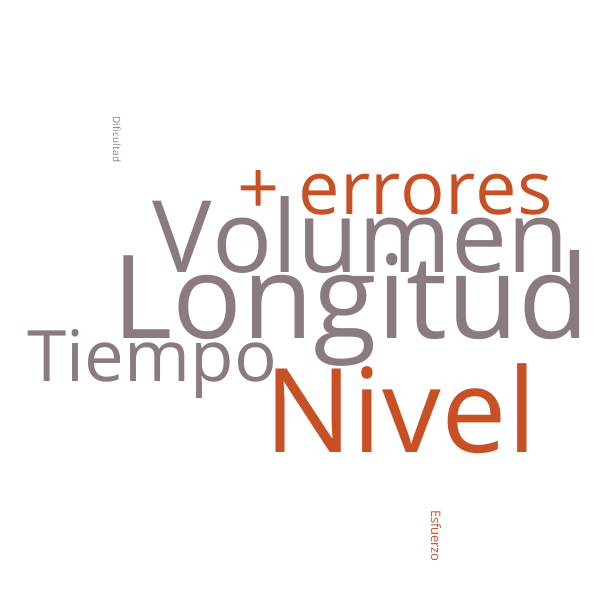
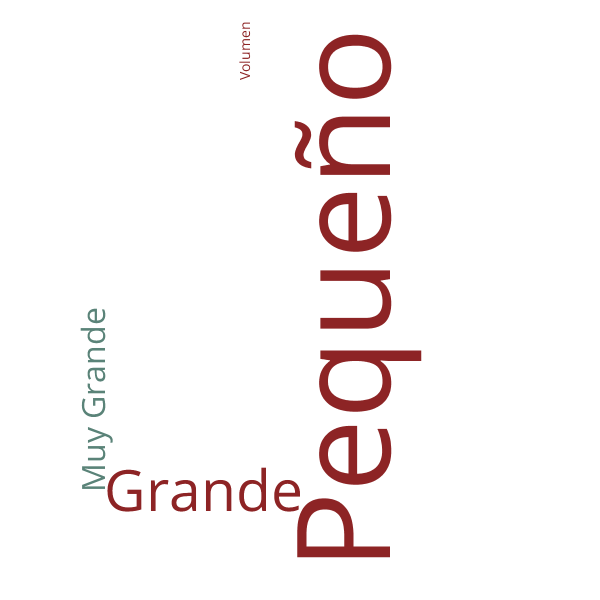
7-11-2016

diff --git a/src/main/java/HalsteadMetricsBean.java b/src/main/java/HalsteadMetricsBean.java
@@ -1,0 +1,111 @@
+
+import java.util.HashMap;
+
+
+public class HalsteadMetricsBean {
+
+	private int operatorCount;
+	private int operandCount;
+	private int uniqueOperatorCount; 
+	private int uniqueOperandCount;
+	private int vocabulary;
+	private int length;
+	private double volume;
+	private double difficulty;
+	private double effort;
+	
+	public HashMap<String, Integer> getHalsteadWordFrecuency(){
+		HashMap<String, Integer> wordFrecuncy = new HashMap<String, Integer>();
+		getLargoWordFrecuency(wordFrecuncy);
+		getVolumenWordFrecuency(wordFrecuncy);
+		return wordFrecuncy;
+	}
+		
+	private HashMap<String, Integer> getLargoWordFrecuency(HashMap<String, Integer> wordFrecuncy){
+	
+		if(length <= 100){
+			wordFrecuncy.put("Pequeño", 250);
+			wordFrecuncy.put("Mediano", 200);
+			wordFrecuncy.put("Grande", 100);
+			wordFrecuncy.put("Muy Grande",50);
+		}else if(length > 100 && length <= 500){
+			wordFrecuncy.put("Pequeño", 100);
+			wordFrecuncy.put("Mediano", 250);
+			wordFrecuncy.put("Grande", 100);
+			wordFrecuncy.put("Muy Grande",50);
+		}else if(length > 500 && length <= 1500){
+			wordFrecuncy.put("Pequeño", 100);
+			wordFrecuncy.put("Mediano", 150);
+			wordFrecuncy.put("Grande", 250);
+			wordFrecuncy.put("Muy Grande",100);
+		}else{//length > 1500
+			wordFrecuncy.put("Pequeño", 50);
+			wordFrecuncy.put("Mediano", 50);
+			wordFrecuncy.put("Grande", 100);
+			wordFrecuncy.put("Muy Grande",250);
+		}
+		return wordFrecuncy;
+	}
+	
+	private HashMap<String, Integer> getVolumenWordFrecuency(HashMap<String, Integer> wordFrecuncy){
+		Long value = Math.round((volume * 250) / 8000);
+		int frecuency = Integer.valueOf(value.intValue());
+		wordFrecuncy.put("Volumen", frecuency);
+		return wordFrecuncy;
+	}
+	
+	public int getOperatorCount() {
+		return operatorCount;
+	}
+	public void setOperatorCount(int operatorCount) {
+		this.operatorCount = operatorCount;
+	}
+	public int getOperandCount() {
+		return operandCount;
+	}
+	public void setOperandCount(int operandCount) {
+		this.operandCount = operandCount;
+	}
+	public int getUniqueOperatorCount() {
+		return uniqueOperatorCount;
+	}
+	public void setUniqueOperatorCount(int uniqueOperatorCount) {
+		this.uniqueOperatorCount = uniqueOperatorCount;
+	}
+	public int getUniqueOperandCount() {
+		return uniqueOperandCount;
+	}
+	public void setUniqueOperandCount(int uniqueOperandCount) {
+		this.uniqueOperandCount = uniqueOperandCount;
+	}
+	public int getVocabulary() {
+		return vocabulary;
+	}
+	public void setVocabulary(int vocabulary) {
+		this.vocabulary = vocabulary;
+	}
+	public int getLength() {
+		return length;
+	}
+	public void setLength(int length) {
+		this.length = length;
+	}
+	public double getVolume() {
+		return volume;
+	}
+	public void setVolume(double volume) {
+		this.volume = volume;
+	}
+	public double getDifficulty() {
+		return difficulty;
+	}
+	public void setDifficulty(double difficulty) {
+		this.difficulty = difficulty;
+	}
+	public double getEffort() {
+		return effort;
+	}
+	public void setEffort(double effort) {
+		this.effort = effort;
+	}
+}

diff --git a/src/main/java/KumoGeneratorOutputWordCloud.java b/src/main/java/KumoGeneratorOutputWordCloud.java
@@ -4,6 +4,7 @@ import java.io.FileInputStream;
 import java.io.IOException;
 import java.io.InputStream;
 import java.util.ArrayList;
+import java.util.HashMap;
 import java.util.List;
 import java.util.Random;
 
@@ -20,7 +21,7 @@ public class KumoGeneratorOutputWordCloud {
 	
 	private static final Random RANDOM = new Random();
 		
-	public static void kumoGenerateOutputWordCloud(String fileWordCloudToWrite) throws IOException{
+	public static void kumoGenerateOutputWordCloud(String fileWordCloudToWrite, HalsteadMetricsBean halstedMetrics) throws IOException{
 	    final FrequencyAnalyzer frequencyAnalyzer = new FrequencyAnalyzer();
 	    frequencyAnalyzer.setWordFrequenciesToReturn(600);
 	    frequencyAnalyzer.setMinWordLength(5);
@@ -37,7 +38,8 @@ public class KumoGeneratorOutputWordCloud {
 	    
 	    wordCloud.setFontScalar(new LinearFontScalar(8, 130));
 	    
-	    wordCloud.build(buildWordFrequencies());
+	    //wordCloud.build(buildWordFrequencies());
+	    wordCloud.build(buildWordFrequenciesByHashMap(halstedMetrics.getHalsteadWordFrecuency()));
 	    
 	    //wordCloud.writeToFile("C:\\Users\\Usuario\\Desktop\\wordcloud_match_online_example.png");
 	    wordCloud.writeToFile(fileWordCloudToWrite);
@@ -55,14 +57,16 @@ public class KumoGeneratorOutputWordCloud {
         final List<WordFrequency> wordFrequencies = new ArrayList<>();
         for (final String emoji : EMOJIS) {
             wordFrequencies.add(new WordFrequency(emoji, RANDOM.nextInt(250)));
-        	/*
-        	if(emoji.compareTo("Longitud")==0)
-        		wordFrequencies.add(new WordFrequency(emoji, 250));
-        	else
-        		wordFrequencies.add(new WordFrequency(emoji, 1));
-        	*/
         }
         return wordFrequencies;
+    }
+    
+    private static List<WordFrequency> buildWordFrequenciesByHashMap(HashMap<String, Integer> wordFrecuencies){
+    	final List<WordFrequency> wordFrequencies = new ArrayList<>();
+    	for (String key : wordFrecuencies.keySet()) {
+    		wordFrequencies.add(new WordFrequency(key, wordFrecuencies.get(key)));
+    	}
+    	return wordFrequencies;
     }
     
     private static final String[] EMOJIS = {

diff --git a/src/main/java/ExecuteGeneratorOutputHtmlFile.java b/src/main/java/ExecuteGeneratorOutputHtmlFile.java
@@ -14,8 +14,20 @@ public class ExecuteGeneratorOutputHtmlFile {
 	final static String destinoPath = "salidaHtml/";
 	final static String originWordCloud = "SalidaWordCloud/HalsteadWordCloud.png";
 		
-	public static void main(String[] args) throws IOException {		
-		KumoGeneratorOutputWordCloud.kumoGenerateOutputWordCloud("SalidaWordCloud/HalsteadWordCloud.png");
+	public static void main(String[] args) throws IOException {	
+		
+		HalsteadMetricsBean halsteadMetric = new HalsteadMetricsBean();
+		halsteadMetric.setOperatorCount(48);
+		halsteadMetric.setOperandCount(32);
+		halsteadMetric.setUniqueOperatorCount(15);
+		halsteadMetric.setUniqueOperandCount(11);
+		halsteadMetric.setVocabulary(26);
+		halsteadMetric.setLength(80);
+		halsteadMetric.setVolume(376.0351774512874);
+		halsteadMetric.setDifficulty(21.818181818181817);
+		halsteadMetric.setEffort(8204.403871664452);
+		
+		KumoGeneratorOutputWordCloud.kumoGenerateOutputWordCloud("SalidaWordCloud/HalsteadWordCloud.png", halsteadMetric);
 		executeGenOutputHtmoFile();	
 	}
 	
